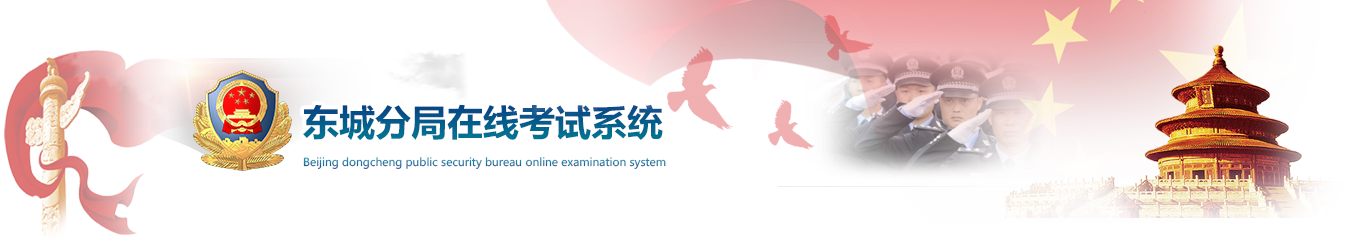
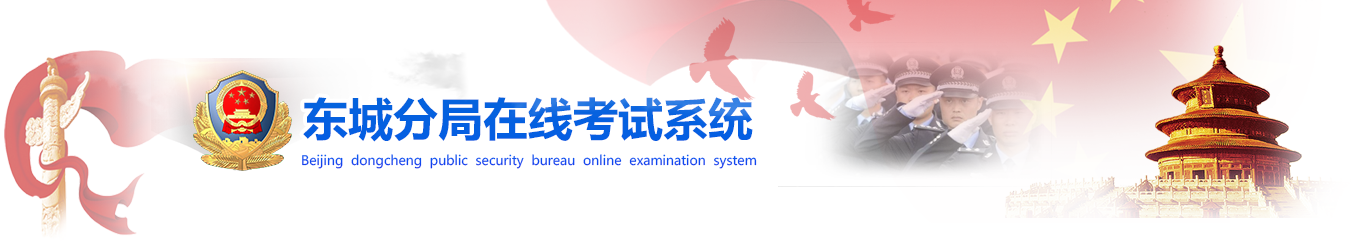
update demo3 index

Changed region(s): [[0.2144, 0.0854, 0.6127, 0.5976], [0.2144, 0.626, 0.5514, 0.6829], [0.5821, 0.0, 0.674, 0.2561]]

diff --git a/demo3/demo-index.html b/demo3/demo-index.html
@@ -28,17 +28,6 @@
 			<div class="mastbg">
 			<div class="masthead">
 				<div class="thin-body masthead-bg">
-					<div class="masthead-logo">
-						<!-- <img src="assets/img/icon3.png" style="width: 150px;"> -->
-					</div>
-					<div class="masthead-name">
-						<h1 class="masthead-name-main">
-							东城分局在线考试系统
-						</h1>
-						<h5 class="masthead-name-sub">
-							Beijing dongcheng public security bureau online self-study examination system.
-						</h5>
-					</div>
 				</div>
 			</div>
 
@@ -62,6 +51,7 @@
 										</div> -->
 										<div class="func-item func-item-2x no-border" style="padding: 20px 10px;">
 											<ul class="no-style">
+												<li><b>欢迎您！</b></li>
 												<li class="police-name">张三</li>
 												<li class="police-id">123456</li>
 											</ul>
@@ -132,7 +122,7 @@
 													<i class="fa fa-2x fa-paperclip"></i>
 												</div>
 												<div class="desciption pull-left">
-													课&nbsp;件&nbsp;超&nbsp;市
+													执法培训模拟考试
 												</div>
 										</div>
 										<div class="func-item func-item-bar">
@@ -140,7 +130,7 @@
 													<i class="fa fa-2x">☭</i>
 												</div>
 												<div class="desciption pull-left">
-													课&nbsp;件&nbsp;超&nbsp;市
+													党的建设模拟考试
 												</div>
 										</div>
 									</div>
@@ -275,7 +265,7 @@
 							<div class="panel panel-white panel-static-height">
 								<div class="panel-heading">
 									<h3 class="panel-title">
-										公告栏
+										通知公告
 										<a href="javascript: void(0);" class="pull-right">更多</a>
 									</h3>
 								</div>
@@ -325,62 +315,103 @@
 								</div>
 							</div>
 
-							<div class="panel panel-white panel-static-height" style="height: 460px;">
+							<div class="panel panel-white panel-static-height">
 								<div class="panel-heading">
 									<h3 class="panel-title">
-										自学自测
+										案例评析
 										<a href="demo-exam-learn.html" class="pull-right">更多</a>
-										<a href="demo-exam-paper.html" class="pull-right">模拟考试</a>
+									</h3>
+								</div>
+								<div class="panel-body" style="padding-top: 0;">
+										<div class="notice-list">
+											<table class="table">
+												<!-- <thead>
+													<tr>
+														<th>公告标题</th>
+														<th>发布时间</th>
+													</tr>
+												</thead> -->
+												<tbody>
+													<tr>
+														<td class="fix-text" style="border-top-color: transparent;">
+															<a href="" onclick="return false;">2008年奥运会将在北京举行！关于上级领导的指示关于上级领导的指示关于上级领导的指示</a>
+														</td>
+														<td style="border-top-color: transparent;">2005/07/09</td>
+													</tr>
+													<tr>
+														<td class="fix-text">
+															<a href="" onclick="return false;">2008年奥运会将在北京举行！发票清算。</a>
+														</td>
+														<td>2005/07/09</td>
+													</tr>
+													<tr>
+														<td class="fix-text">
+															<a href="" onclick="return false;">2008年奥运会将在北京举行！关于上级领导的指示</a>
+														</td>
+														<td>2005/07/09</td>
+													</tr>
+													<tr>
+														<td class="fix-text">
+															<a href="" onclick="return false;">2008年奥运会将在北京举行！关于上级领导的指示关于上级领导的指示</a>
+														</td>
+														<td>2005/07/09</td>
+													</tr>
+													<tr>
+														<td class="fix-text">
+															<a href="" onclick="return false;">2008年奥运会将在北京举行！</a>
+														</td>
+														<td>2005/07/09</td>
+													</tr>
+												</tbody>
+											</table>
+										</div><!-- end of .notice-list -->
+									</div>
+							</div>
+
+							<div class="panel panel-white panel-static-height">
+								<div class="panel-heading">
+									<h3 class="panel-title">
+										考试中心
+										<a href="demo-exam-learn.html" class="pull-right">更多</a>
 									</h3>
 								</div>
 								<div class="panel-body" style="padding-top: 0;">
 									<div class="notice-list">
 										<table class="table">
-											<!-- <thead>
+											<thead>
 												<tr>
-													<th>公告标题</th>
-													<th>发布时间</th>
+													<th style="text-align: left; width:500px;">考试内容</th>
+													<th style="text-align: left;">开始时间</th>
+													<th style="text-align: left;">结束时间</th>
 												</tr>
-											</thead> -->
+											</thead>
 											<tbody>
 												<tr>
-													<td class="fix-text fix-text-660" style="border-top-color: transparent;">
-														<span>2008年奥运会将在北京举行！关于上级领导的指示关于上级领导的指示关于上级领导的指示测试测试测试测试测试测试测试测试测试测试测试测试</span>
+													<td>
+														<span>2018年第一次考试</span>
 													</td>
-													<td style="border-top-color: transparent;">
-														<a href="demo-exam-paper.html">浏览题目</a>
+													<td>
+														<span>2018/1/19</span>
+													</td>
+													<td>
+														<span>2018/2/19</span>
+													</td>
+													<td>
+														<a href="demo-exam-paper.html">参加考试</a>
 													</td>
 												</tr>
 												<tr>
-													<td class="fix-text fix-text-660">
-														<span>2008年奥运会将在北京举行！发票清算。</span>
+													<td>
+														<span>2018年第二次考试</span>
 													</td>
 													<td>
-														<a href="demo-exam-paper.html">浏览题目</a>
-													</td>
-												</tr>
-												<tr>
-													<td class="fix-text fix-text-660">
-														<span>2008年奥运会将在北京举行！关于上级领导的指示</span>
+														<span>2018/1/19</span>
 													</td>
 													<td>
-														<a href="demo-exam-paper.html">浏览题目</a>
-													</td>
-												</tr>
-												<tr>
-													<td class="fix-text fix-text-660">
-														<span>2008年奥运会将在北京举行！关于上级领导的指示关于上级领导的指示</span>
+														<span>2018/2/19</span>
 													</td>
 													<td>
-														<a href="demo-exam-paper.html">浏览题目</a>
-													</td>
-												</tr>
-												<tr>
-													<td class="fix-text fix-text-660">
-														<span>2008年奥运会将在北京举行！</span>
-													</td>
-													<td>
-														<a href="demo-exam-paper.html">浏览题目</a>
+														<a href="demo-exam-paper.html">已结束</a>
 													</td>
 												</tr>
 											</tbody>
@@ -389,10 +420,10 @@
 								</div>
 							</div>
 
-							<div class="panel panel-white panel-static-height" style="height: 460px;">
+							<div class="panel panel-white panel-static-height">
 								<div class="panel-heading">
 									<h3 class="panel-title">
-										考试
+										答疑互动
 										<a href="demo-exam-list.html" class="pull-right">更多</a>
 									</h3>
 								</div>

diff --git a/demo3/assets/css/demo-all.css b/demo3/assets/css/demo-all.css
@@ -91,7 +91,7 @@ a:focus, a:hover {
 .masthead-bg {
 	/*width: 100%;*/
 	height: 220px;
-	background: url(../img/masterHead.png) no-repeat right top;
+	background: url(../img/masterHead2.png) no-repeat right top;
 	background-size: 100% 100%;
 	background-position: 35px;
 }
